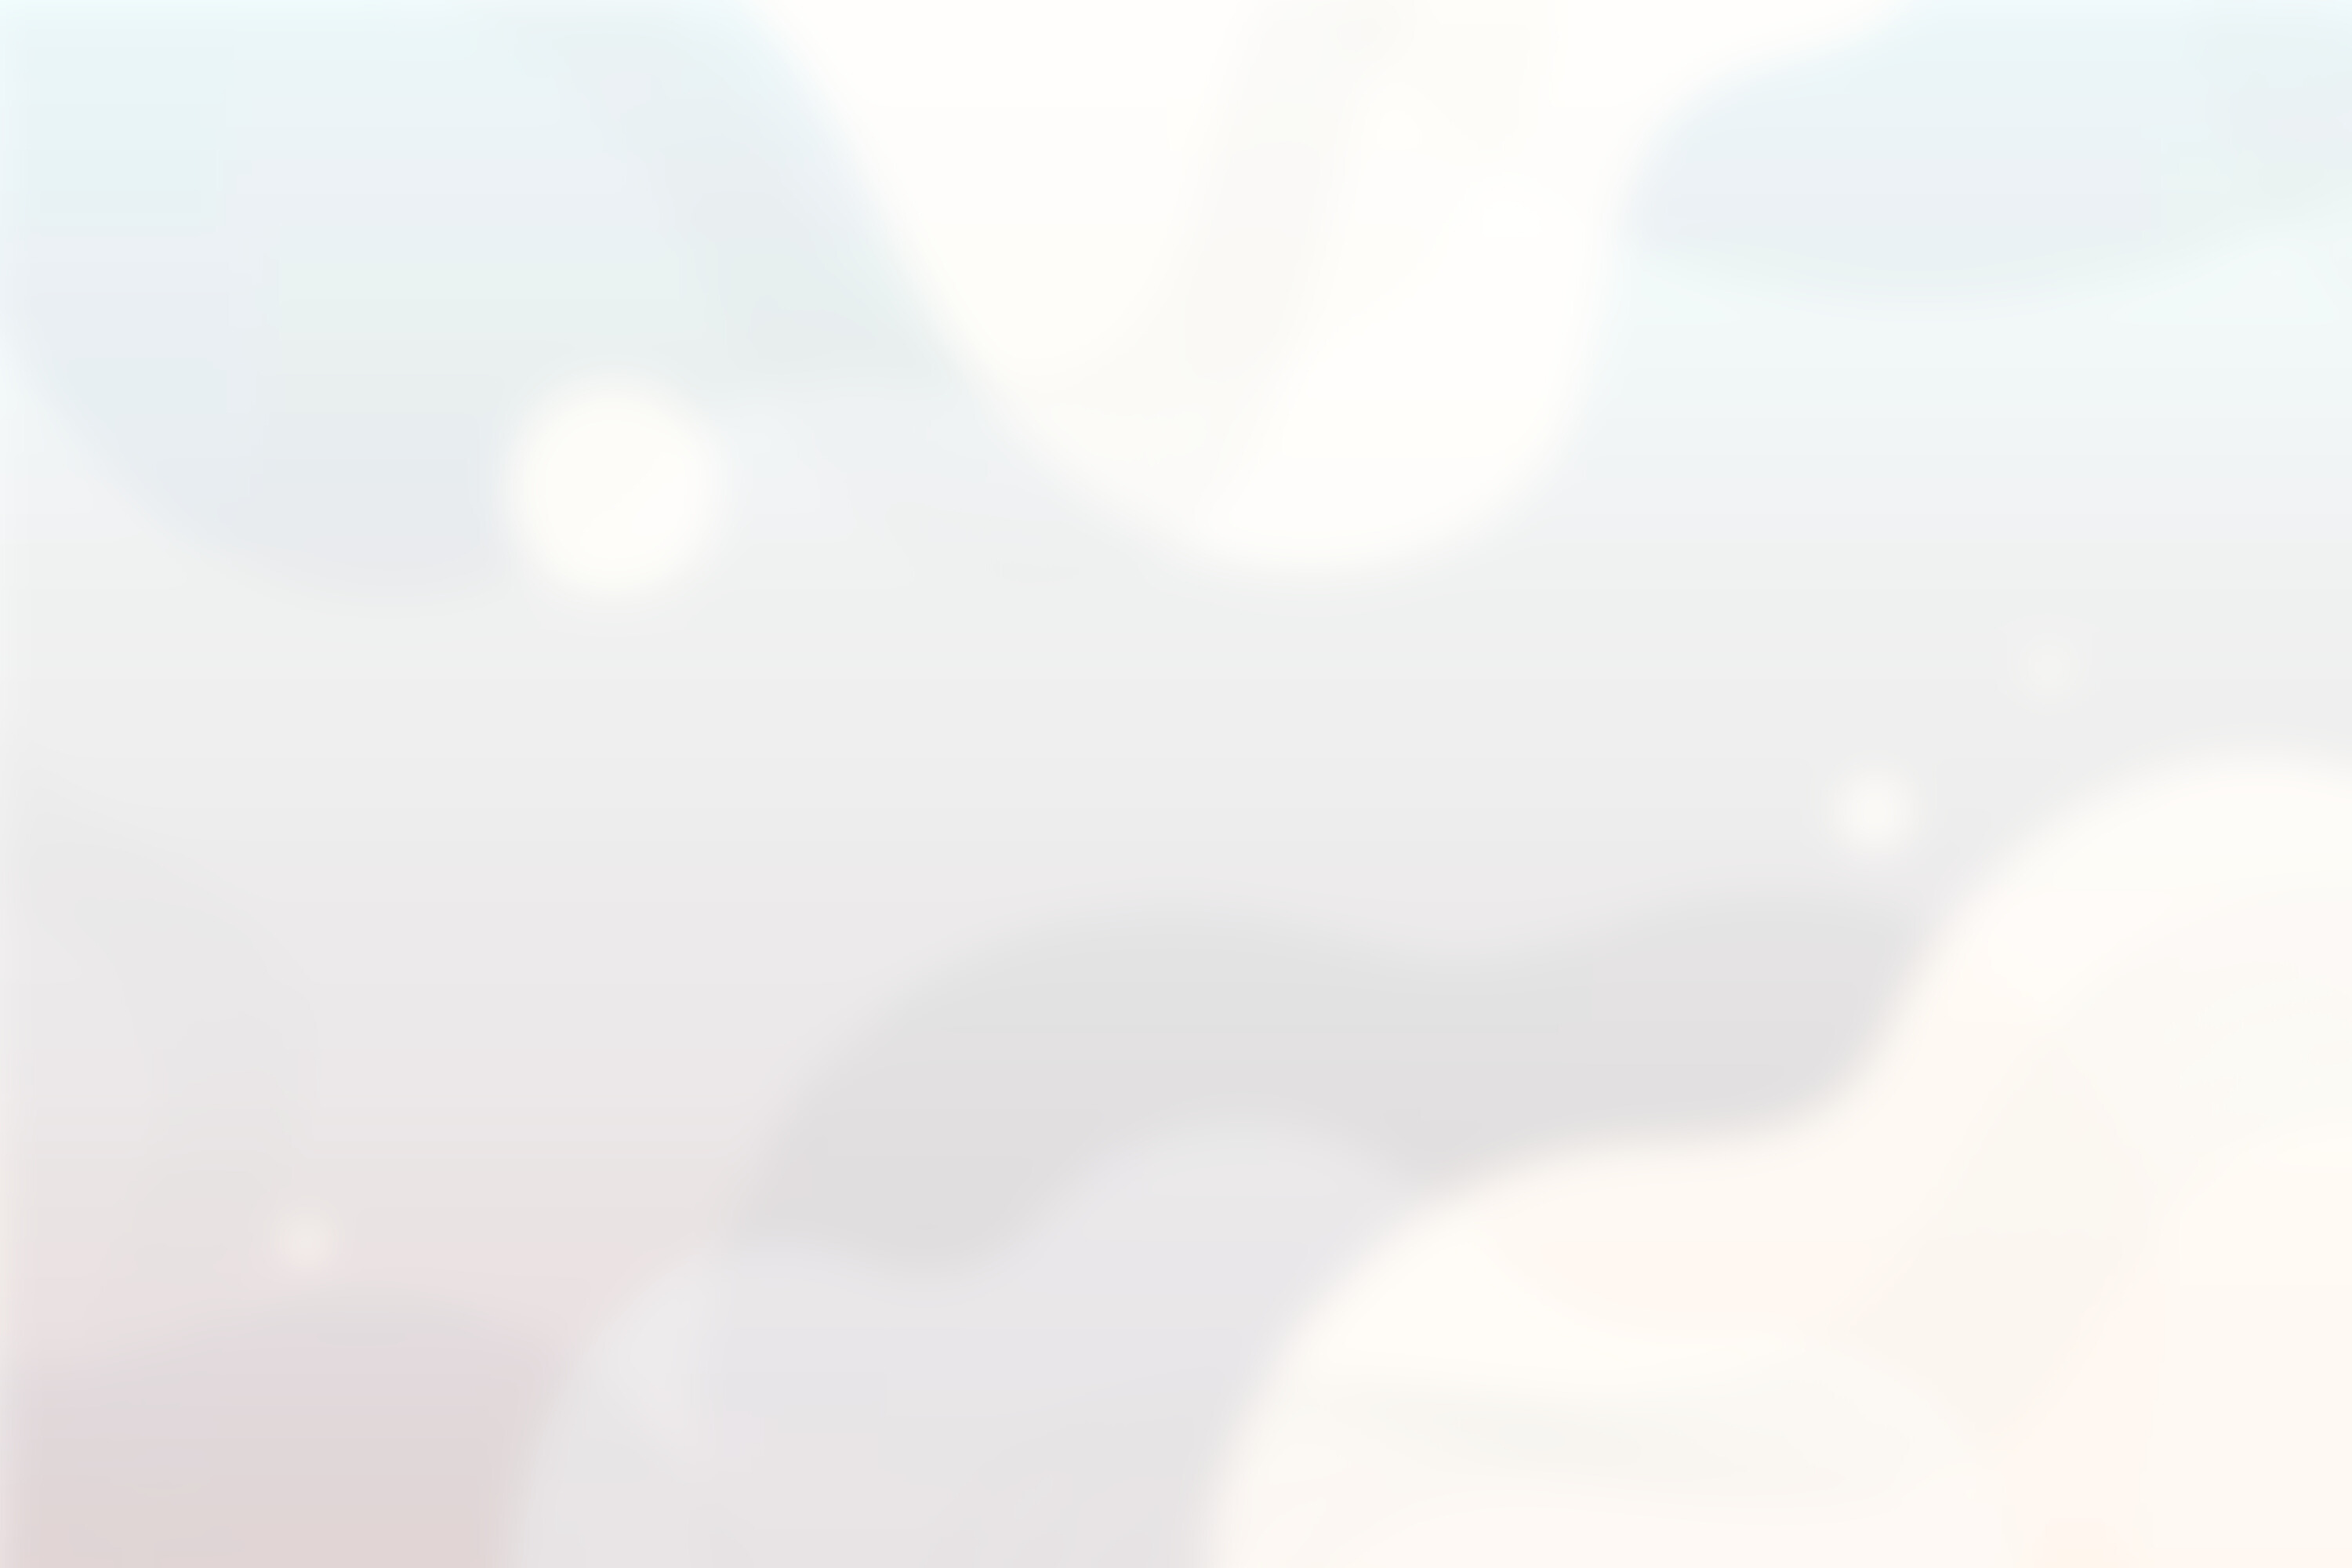
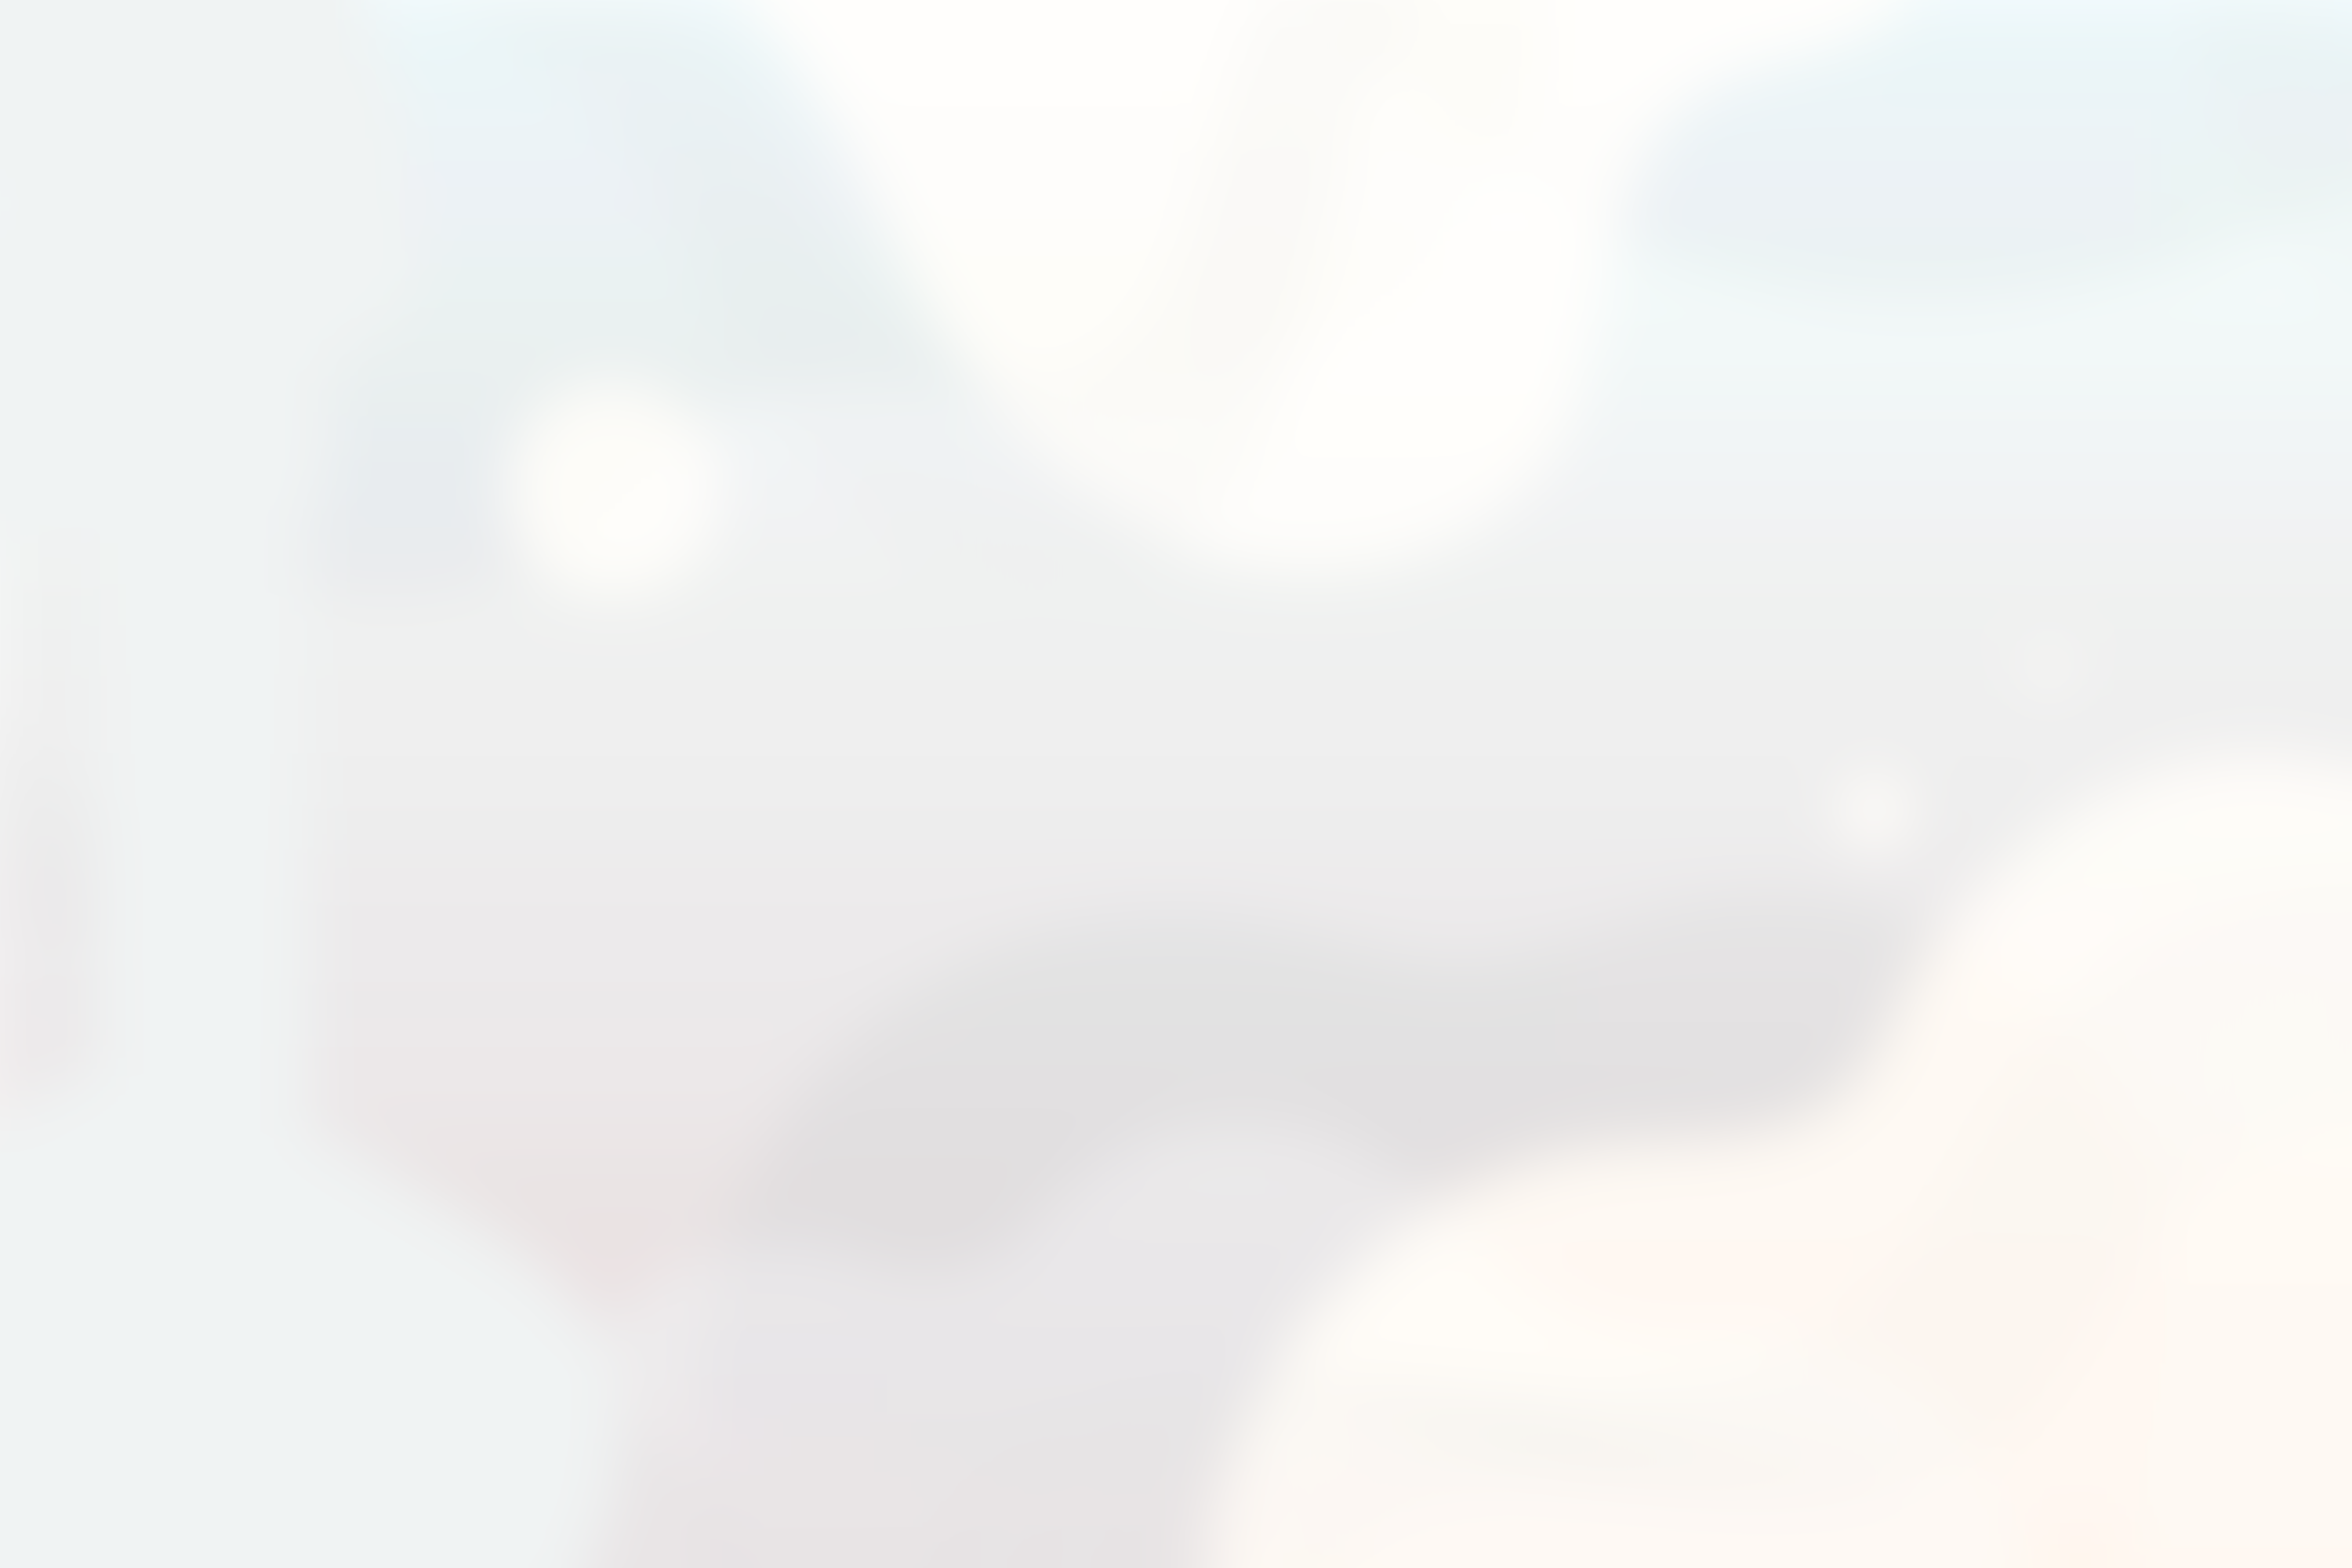
made background better w circles

Changed region(s): [[0.0, 0.837, 0.248, 1.0]]

diff --git a/src/components/ui/timeline.tsx b/src/components/ui/timeline.tsx
@@ -149,7 +149,7 @@ export const Timeline = ({
             className="flex justify-start pt-10 md:pt-40 md:gap-10 scroll-mt-24"
           >
             <div className="sticky flex flex-col md:flex-row z-40 items-center top-40 self-start max-w-xs lg:max-w-sm md:w-full">
-              <div className="h-10 absolute left-3 md:left-3 w-10 rounded-full flex items-center justify-center bg-[#e8edf0] dark:bg-[#101217]">
+              <div className="h-10 absolute left-3 md:left-3 w-10 rounded-full flex items-center justify-center bg-[#f0f3f3] dark:bg-[#121719]">
                 <div className="h-5 w-5 rounded-full bg-amber-100 dark:bg-amber-200 border border-amber-300 dark:border-amber-300" />
               </div>
               <h3 className="hidden md:block text-xl md:pl-20 md:text-5xl font-bold text-neutral-500 dark:text-neutral-500 ">